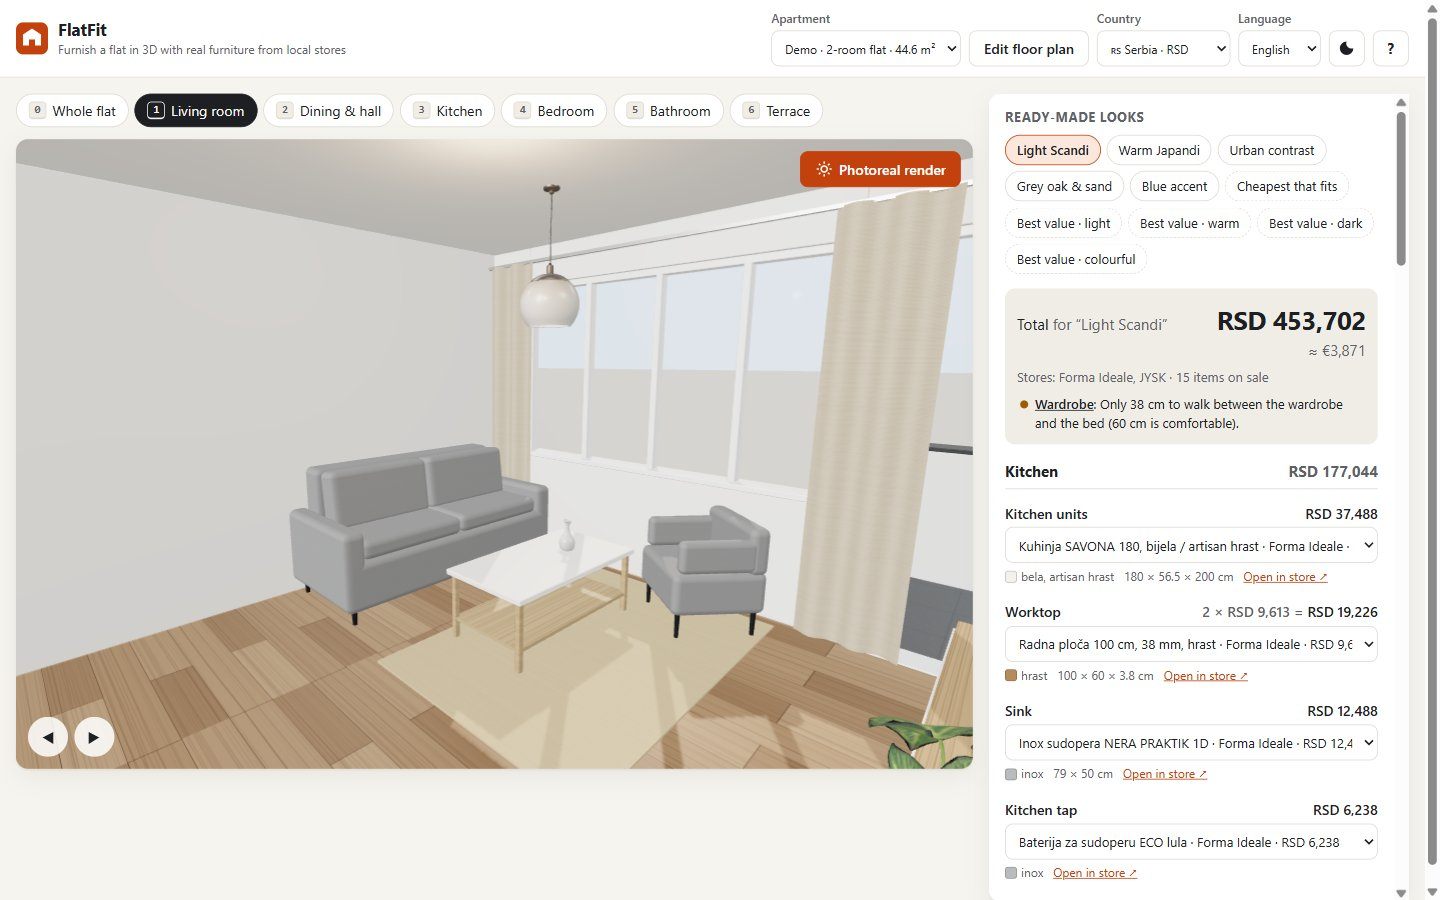
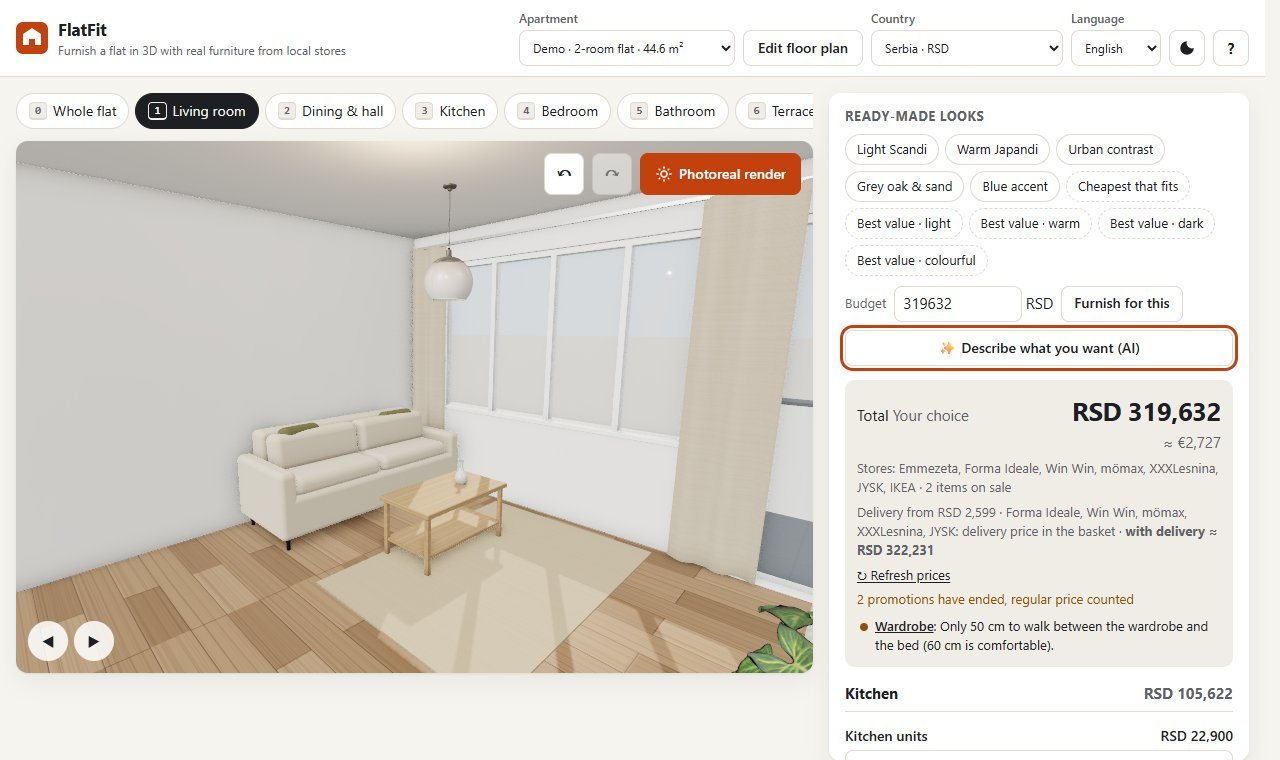
New demo GIF; ambient occlusion without grain on Intel GPUs
The README demo now shows the AI stylist (a wish, then a follow-up that changes
only the coffee table and the rug), the living room in 3D and an L-shaped
bedroom in the editor: 19 s, 0.77 MB instead of 3.7 MB, recorded headless on
the laptop's GPU with the stylist's answers from a stand-in (said under the
GIF). Two screenshots are refreshed. Recording showed GTAO as grain and a dark
halo behind the fridge and chairs on Intel UHD: a shorter radius, thinner
occluders, 32 samples and a wider denoise leave only soft shade in corners.

diff --git a/src/three/viewer.ts b/src/three/viewer.ts
@@ -272,7 +272,10 @@ export class Viewer {
     const composer = new EffectComposer(this.renderer, target);
     composer.addPass(new RenderPass(this.scene, this.camera));
     const ao = new GTAOPass(this.scene, this.camera, Math.max(1, w), Math.max(1, h));
-    ao.updateGtaoMaterial({ radius: 0.5, distanceExponent: 1, thickness: 1, scale: 1.5 });
+    // a short radius and thin occluders: soft shade in corners and under cabinets, no dark halo behind a fridge or
+    // a chair; more samples and a wider denoise, or Intel GPUs show it as grain (compared frame by frame, 21.11.)
+    ao.updateGtaoMaterial({ radius: 0.25, distanceExponent: 2, thickness: 0.3, scale: 1, samples: 32 });
+    ao.updatePdMaterial({ radius: 12, samples: 24, rings: 3, lumaPhi: 10, depthPhi: 2, normalPhi: 3 });
     ao.blendIntensity = 1;
     composer.addPass(ao);
     composer.addPass(new OutputPass());

diff --git a/README.md b/README.md
@@ -9,7 +9,9 @@
 
 **[Live demo](https://aco993.github.io/flatfit/)** · English · Deutsch · Srpski · Bosanski · Hrvatski · 🇷🇸 🇧🇦 🇭🇷 🇩🇪 🇦🇹
 
-![FlatFit: dragging the sofa (red while it hits the coffee table, green by the wall), undo, switching to Germany, stepping into the living room](docs/demo.gif)
+![FlatFit: a wish in one sentence furnishes the flat from the Serbian catalogue within the budget; a follow-up changes only the coffee table and the rug; the living room in 3D; a bedroom made L-shaped in the floor-plan editor](docs/demo.gif)
+
+<sub>Recorded on the built site with an Intel laptop GPU. The AI stylist's two answers come from a stand-in here; with your own Gemini or Claude key the model answers the same way, with settings only, and FlatFit picks the products.</sub>
 
 **[Read the case study](docs/case-study.md)** for the problems behind it: GPU driver resets, honest price data, testing with personas, performance. The main design decisions are written up as [architecture decision records](docs/adr/README.md).
 
@@ -56,7 +58,7 @@ They are better at what they do: huge model libraries, realistic renders, scanni
 
 | Desktop | Phone | Floor-plan editor | Photoreal render |
 |---|---|---|---|
-| ![](docs/screenshot-desktop.jpg) | ![](docs/screenshot-phone.jpg) | ![](docs/screenshot-editor.jpg) | ![](docs/screenshot-render.jpg) |
+| ![The living room in 3D with a sofa bed, coffee table and rug, next to the shopping list](docs/screenshot-desktop.jpg) | ![](docs/screenshot-phone.jpg) | ![The floor-plan editor with the bedroom extended into an L shape](docs/screenshot-editor.jpg) | ![](docs/screenshot-render.jpg) |
 
 | Price history | Shopping list by store | Payback for landlords | Walls and floor |
 |---|---|---|---|
